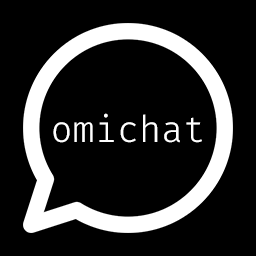
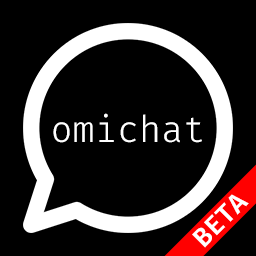
Initial beta release

Changed region(s): [[0.6562, 0.6562, 1.0, 1.0]]

diff --git a/README.md b/README.md
@@ -1,4 +1,6 @@
+<a href="https://steamcommunity.com/sharedfiles/filedetails/?id=3040299907">
 <img src="./docs/images/poster.png" width=256 height=256 />
+</a>
 
 A mod for [Project Zomboid](https://projectzomboid.com) that extends chat functionality.
 

diff --git a/CHANGELOG.md b/CHANGELOG.md
@@ -1,2 +1,2 @@
-# 1.0
-Initial release
+# 0.0
+Initial beta release
